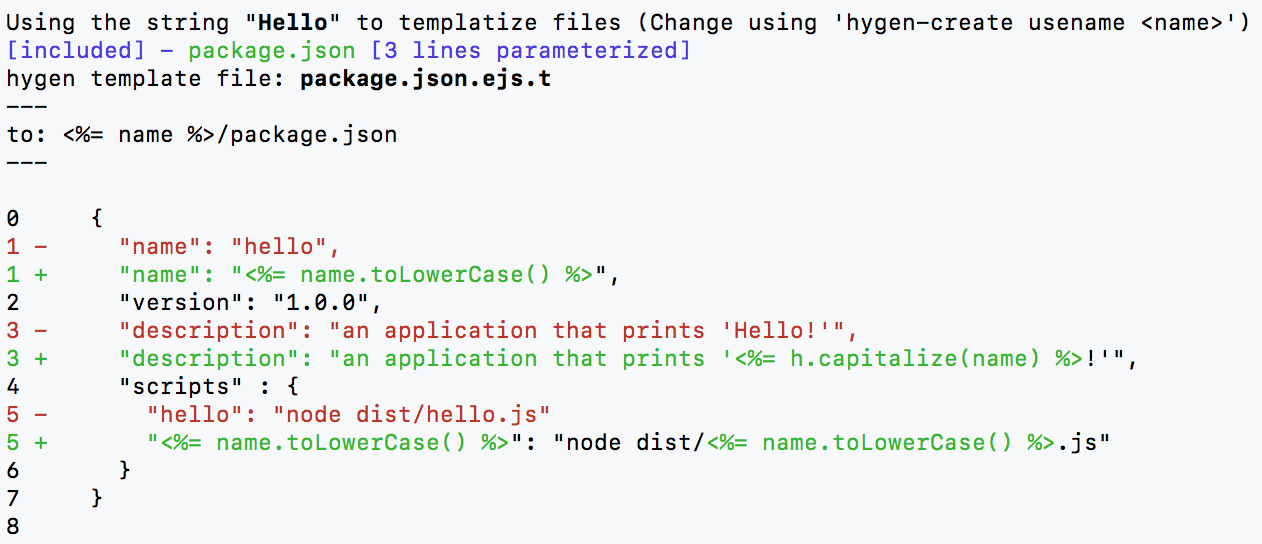
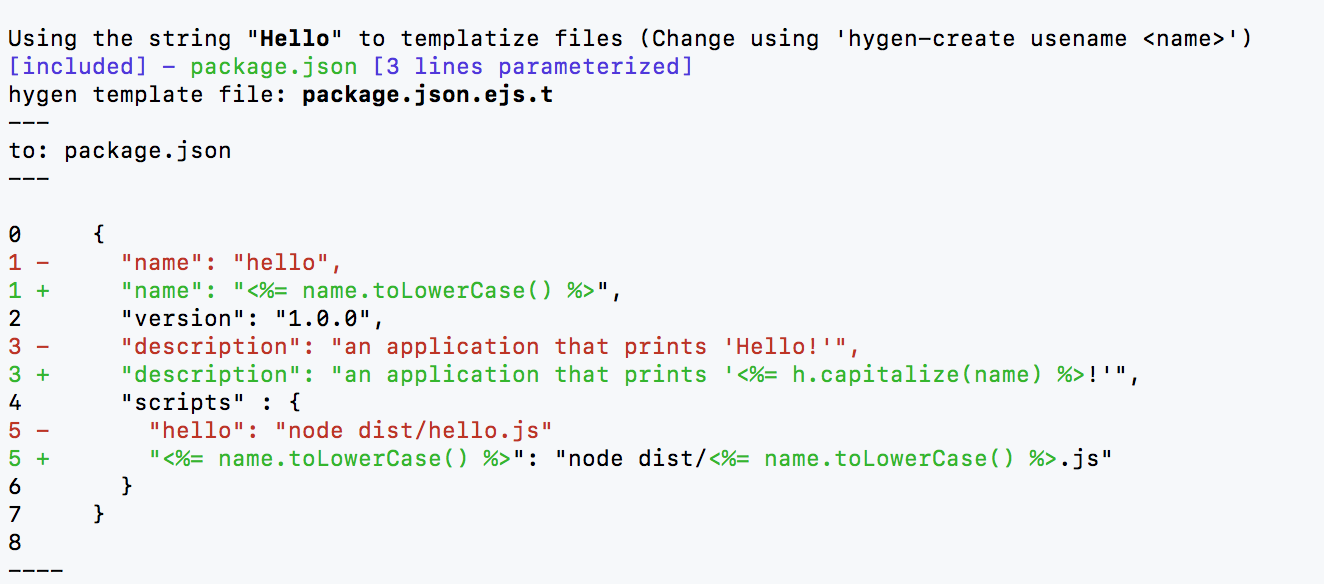
control whether generator creates parent dir for content or not

diff --git a/dist/hygen-create-cli.js b/dist/hygen-create-cli.js
@@ -300,6 +300,13 @@ class HygenCreateCli extends cli_app_1.CliApp {
                 console.log(chalk_1.default.red("Generator name not set (use hygen-create rename <name> to set it)"));
             }
             console.log("");
+            if (this.hgc.session.gen_parent_dir) {
+                console.log(`Parent dir generation: ON  (the generator will create a <name> directory as parent for the content)`);
+            }
+            else {
+                console.log("Parent dir generation: OFF (the generator will add content to the current directory)");
+            }
+            console.log("");
         }
     }
     generate(options) {
@@ -309,4 +316,4 @@ class HygenCreateCli extends cli_app_1.CliApp {
     }
 }
 exports.default = HygenCreateCli;
[2 lines of base64/hex data omitted]

diff --git a/src/hygen-create-cli.ts b/src/hygen-create-cli.ts
@@ -331,6 +331,14 @@ export default class HygenCreateCli extends CliApp {
                 console.log(chalk.red("Generator name not set (use hygen-create rename <name> to set it)"))
             }    
             console.log("")
+
+
+            if ( this.hgc.session.gen_parent_dir ) {
+                console.log(`Parent dir generation: ON  (the generator will create a <name> directory as parent for the content)`)
+            } else {
+                console.log("Parent dir generation: OFF (the generator will add content to the current directory)")
+            }
+            console.log("")
         }
  
     }

diff --git a/README.md b/README.md
@@ -28,7 +28,7 @@ or
 $ npm install -g hygen-create
 ```
 
-Note that this does NOT install `hygen`. To use the generated generators you must have [hygen](http://www.hygen.io) installed too.
+Note that this does NOT install `hygen`. To use the generators made by hygen-create you must have [hygen](http://www.hygen.io) installed as well.
 
 ## Generating a generator
 
@@ -112,14 +112,15 @@ If we take a look at `hygen-create.json`, we'll see the added files are listed t
 $ cat hygen-create.json 
 {
   "about": "This is a hygen-create definitions file. The hygen-create utility creates generators that can be executed using hygen.",
-  "hygen_create_version": "0.1.0",
+  "hygen_create_version": "0.2.0",
   "name": "greeter",
   "files_and_dirs": {
     "hygen-create.json": true,
     "package.json": true,
     "dist/hello.js": true
   },
-  "templatize_using_name": null
+  "templatize_using_name": null,
+  "gen_parent_dir": false
 }
 ```
 
@@ -140,7 +141,7 @@ We can check the status of the session by typing `hygen-create status`:
 ```
 $ hygen-create status 
 
-Using the string "hello" to templatize files (Change using 'hygen-create usename <name>')
+Using the string "Hello" to templatize files (Change using 'hygen-create usename <name>')
 
 The following files are included in the generator:
 [included] - hygen-create.json [2 lines parameterized]
@@ -148,6 +149,8 @@ The following files are included in the generator:
 [included] - dist/hello.js [2 lines parameterized]
 
 Target template dir not set (export HYGEN_CREATE_TMPLS= to set it)
+
+Parent dir generation: OFF (the generator will add content to the current directory)
 ```
 
 If we'd like to see how our files will be templatized, we can use `hygen-create status -v <file>` to check that out.
@@ -178,23 +181,23 @@ generating: /tmp/_templates/greeter/new/dist_hello.js.ejs.t
 We now have a `hygen` generator called `greeter` that is ready to use. For example, we can run:
 ```
 $ export HYGEN_TMPLS=/tmp/_templates 
-$ mkdir /tmp/dev 
-$ cd /tmp/dev
+$ mkdir /tmp/dev/hola-greeter
+$ cd /tmp/dev/hola-greeter
 $ hygen greeter new --name Hola
 
 Loaded templates: /tmp/_templates
-       added: Hola/dist/hola.js
-       added: Hola/hygen-create.json
-       added: Hola/package.json
+       added: dist/hola.js
+       added: hygen-create.json
+       added: package.json
 ```
 
 This will generate a new app for us, this one printing `Hola!` instead of `Hello!`:
 
 ```
-$ cd Hola
+$ cd hola-greeter
 $ npm run hola
 
-> hola@1.0.0 hola /private/tmp/dev/Hola
+> hola@1.0.0 hola /private/tmp/dev/hola-greeter
 > node dist/hola.js
 
 Hola!
@@ -239,7 +242,7 @@ included, and the `hygen-create usename <string>` value and generator name are a
 ```
 $ hygen-create status
 
-Using the string "hola" to templatize files (Change using 'hygen-create usename <name>')
+Using the string "Hola" to templatize files (Change using 'hygen-create usename <name>')
 
 The following files are included in the generator:
 [included] - hygen-create.json [2 lines parameterized]
@@ -247,6 +250,8 @@ The following files are included in the generator:
 [included] - dist/hola.js [2 lines parameterized]
 
 Target dir: /tmp/_templates/greeter
+
+Parent dir generation: OFF (the generator will add content to the current directory)
 ```
 
 This way we can make changes to the generated project and immediately turn those into an updated
@@ -262,13 +267,13 @@ Test our changes:
 ```
 $ npm run hola
 
-> hola@1.0.0 hola /private/tmp/dev/Hola
+> hola@1.0.0 hola /private/tmp/dev/hola-greeter
 > node dist/hola.js
 
 Hola! Hola!
 ```
 
-And run `hygen-create` again - although we'll want to change the name of the generated generator by running:
+And run `hygen-create` again - although we'll want to change the name of the created generator by running:
 ```
 $ hygen-create rename greeter2
 ```
@@ -288,10 +293,81 @@ to the project have been reflected in the new `greeter2` generator:
 ```
 $ cat /tmp/_templates/greeter2/new/dist_hola.js.ejs.t
 ---
-to: <%= name %>/dist/<%= name.toLowerCase() %>.js
+to: dist/<%= name.toLowerCase() %>.js
 ---
 // This is the improved <%= name.toLowerCase() %>.js
 console.log("<%= h.capitalize(name) %>! <%= h.capitalize(name) %>!")
+```
+
+
+## Options
+
+Options can be set using the `hygen-create setopt` command. Currently there is only one option.
+
+### Option: parent directory generation
+
+* Turning on:  `hygen-create setopt --gen-parent-dir`
+* Turning off: `hygen-create setopt --no-parent-dir`
+* .json file field:  `"gen_parent_dir" (boolean)`
+* Default: 
+  * If `hygen-create` session was initiated using `hygen-create v0.1.x`: on
+  * If `hygen-create` session was initiated using `hygen-create v0.2.0` and up: off
+
+
+**When turned off**: the generator will create contents in the current directory.
+
+**When turned on**: the generator will create a parent directory for all  contents.  The name of the parent directory will be the value passed in the `--name` option of the generated `hygen` generator.
+
+
+Example 1: --no-parent-dir
+```bash
+# start the session
+$ hygen-create start mygen
+
+# add a file
+$ hygen-create add file1       
+
+# specify name to templatize
+$ hygen-create usename xyz
+
+# ensure parent-dir generation is off
+$ hygen-create setopt --no-parent-dir
+
+# create the generator
+$ hygen-create generate  # this creates the generator _templates/mygen
+
+# run the generator
+# The result: the generator will create ./file1 (i.e., in the current directory)
+$ hygen mygen new --name hi
+
+Loaded templates: _templates
+      added: file1
+```
+
+Example 2: --gen-parent-dir
+```bash
+# start the session
+$ hygen-create start mygen
+
+# add a file
+$ hygen-create add file1       
+
+# specify name to templatize
+$ hygen-create usename xyz
+
+# ensure parent-dir generation is off
+$ hygen-create setopt --gen-parent-dir
+
+# create the generator
+$ hygen-create generate  # this creates the generator _templates/mygen
+
+# run the generator
+# The result: the generator will create the dir './hi' and then create ./hi/file1
+$ hygen mygen new --name hi
+
+Loaded templates: _templates
+      added: hi/file1
+
 ```
 
 
@@ -331,6 +407,7 @@ $ hygen-create
     add <file|dir> [file|dir...]          add files or directories to be templatized
     remove|rm <file|dir> [file|dir...]    do not templatize specified files/directories
     usename <name>                        set <name> as the templatization param
+    setopt [options]                      configure options for the generator
     status|s [options] [file] [files...]  show replacements to be made in (all|specified) files
     generate|g [options]                  generate a generator from the added files
 ```
